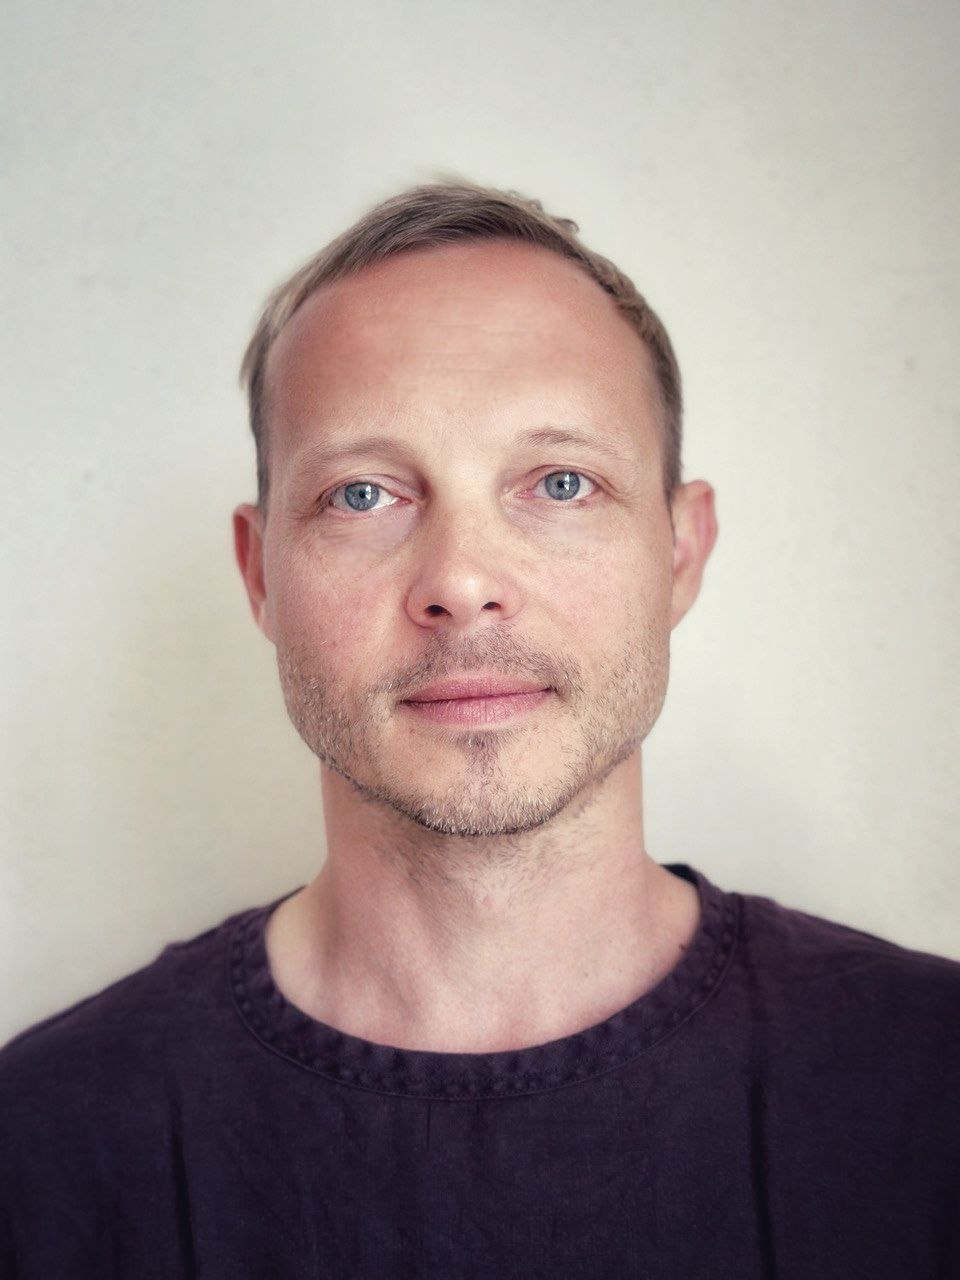
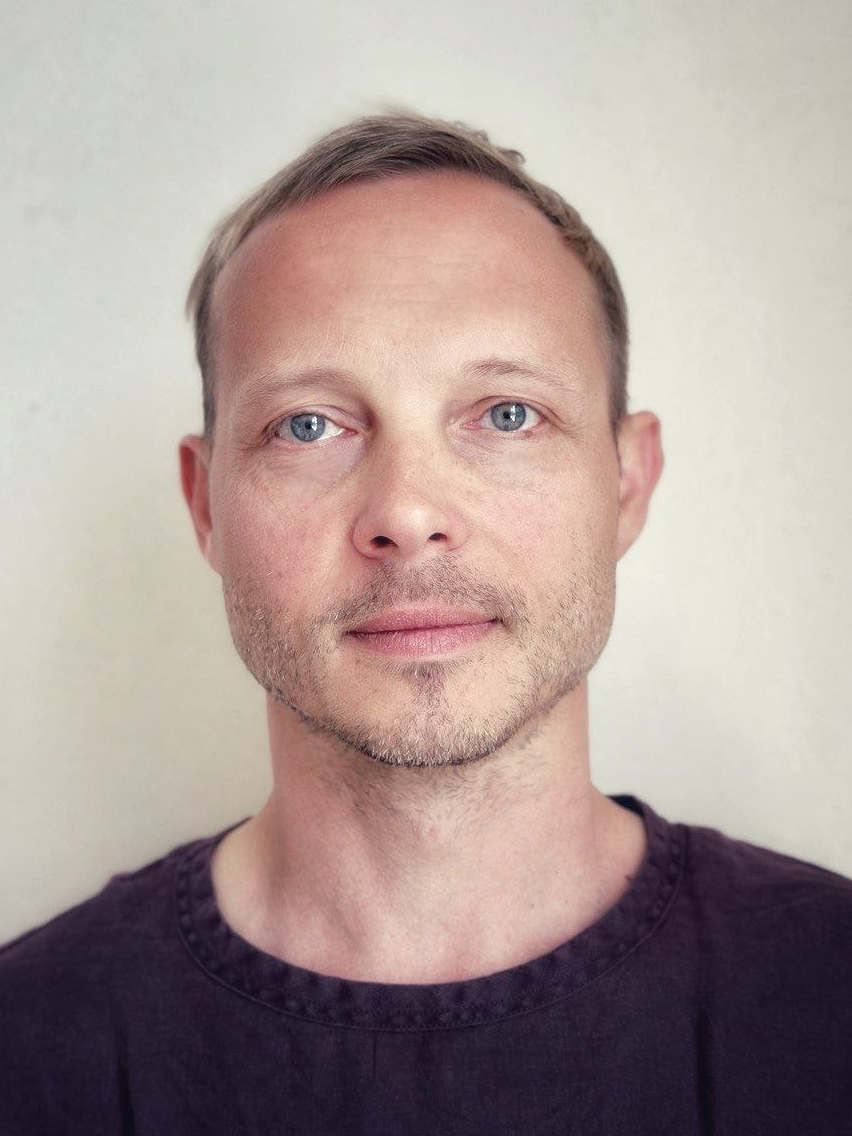
photo edit and some text

Changed region(s): [[0.0, 0.0924, 1.0, 0.8935], [0.7629, 0.8319, 0.7934, 0.9243]]

diff --git a/index.html b/index.html
@@ -22,8 +22,8 @@
           <p class="about_description">
             Experienced QA engineer specializing in automation with a strong background in project management. Proven track record in leading successful teams
             and delivering technology solutions that drive business success. Proficient in TypeScript and JavaScript. Passionate about building user-centric
-            applications and eager to take on challenging projects in innovative software companies. Willing to work and carry out big projects, share EU
-            values, motivated to alter society for making the world a better place for living, ready for challenges.
+            applications and eager to take on challenging projects in innovative software companies. Motivated to work on challenging projects, I put my efforts
+            into making the world a better place.
           </p>
         </div>
         <!--Projects-->

diff --git a/styles/styles.css b/styles/styles.css
@@ -54,7 +54,7 @@ body{
 }
 .photo{
     width: 320px;
-    margin-bottom: 50px;
+    margin-bottom: 10px;
 }
 .sidebar_title{
     color: #FFFFFF;
